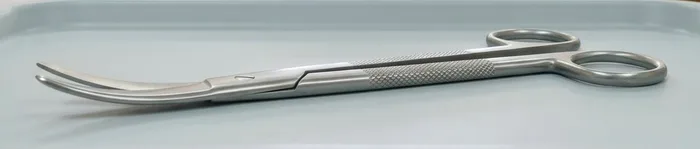
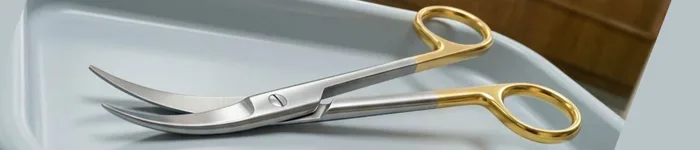
Fotos de la pinza Kelly y de las tijeras Mayo y Metzenbaum
La foto anterior de tijera curva (mango largo, hojas cortas) pasa a la
Metzenbaum; la nueva de hojas largas es la Mayo curva.

Claude-Session: https://claude.ai/code/session_01D8dm8UN5F9c2xM5z5bk3KN

diff --git a/guardia-quirofano/src/instruments.js b/guardia-quirofano/src/instruments.js
@@ -1,5 +1,8 @@
 import photoBisturi from "./assets/instrumentos/bisturi.webp";
+import photoKelly from "./assets/instrumentos/kelly.webp";
 import photoMayoCurva from "./assets/instrumentos/mayo-curva.webp";
+import photoMayoRecta from "./assets/instrumentos/mayo-recta.webp";
+import photoMetzenbaum from "./assets/instrumentos/metzenbaum.webp";
 
 // Instrumental de la Mesa de Mayo: nombre, función, peticiones del cirujano
 // y un dibujo vectorial esquemático generado por código.
@@ -26,6 +29,7 @@ export const INSTRUMENTS = [
     need: "Tijera para disecar tejido delicado.",
     tier: 1,
     draw: "metz",
+    photo: photoMetzenbaum,
   },
   {
     id: "mayo-recta",
@@ -35,6 +39,7 @@ export const INSTRUMENTS = [
     need: "Tijera para cortar la sutura.",
     tier: 1,
     draw: "scissors",
+    photo: photoMayoRecta,
   },
   {
     id: "mayo-curva",
@@ -44,8 +49,8 @@ export const INSTRUMENTS = [
     need: "Tijera fuerte para cortar tejido denso.",
     tier: 2,
     draw: "scissors-curved",
-    // PENDIENTE: confirmar con el equipo docente que la foto es una Mayo curva
-    // (y no una Metzenbaum curva).
+    // PENDIENTE: el equipo docente debe confirmar las fotos de las tijeras
+    // (Mayo curva: hojas largas y robustas; Metzenbaum: mango largo y hojas cortas).
     photo: photoMayoCurva,
   },
   {
@@ -56,6 +61,7 @@ export const INSTRUMENTS = [
     need: "Pinza hemostática mediana para este vaso.",
     tier: 1,
     draw: "clamp-curved",
+    photo: photoKelly,
   },
   {
     id: "mosquito",

diff --git a/guardia-quirofano/README.md b/guardia-quirofano/README.md
@@ -185,6 +185,8 @@ que no quede oculto detrás de ellos.
   resuelven bien o al cerrar el caso. En la Mesa de Mayo reacciona a cada
   entrega.
 - **Guía María G.** acompaña la pausa de seguridad.
-- **Instrumental real** en el repaso de errores de la Mesa de Mayo (bisturí
-  n.º 3 con hoja 15 y tijera curva). Pendiente de los docentes: confirmar si
-  la tijera de la foto es Mayo curva o Metzenbaum curva.
+- **Instrumental real** en el repaso de errores de la Mesa de Mayo: bisturí
+  n.º 3 con hoja 15, pinza Kelly, tijeras Mayo recta, Mayo curva y
+  Metzenbaum. Pendiente de los docentes: confirmar la identificación de las
+  tijeras. La foto rotulada «Pinza Babcock» no se usa: parece una pinza de
+  anillos (Foerster).
